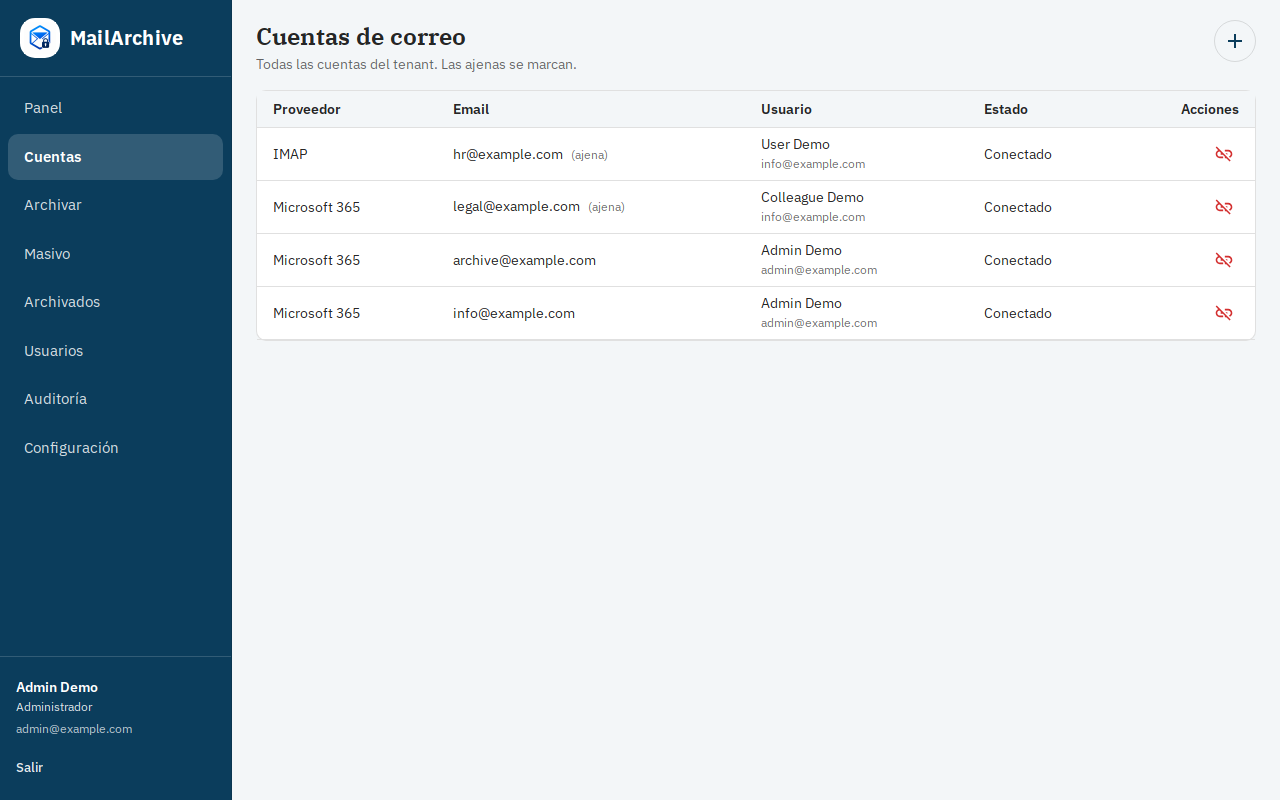
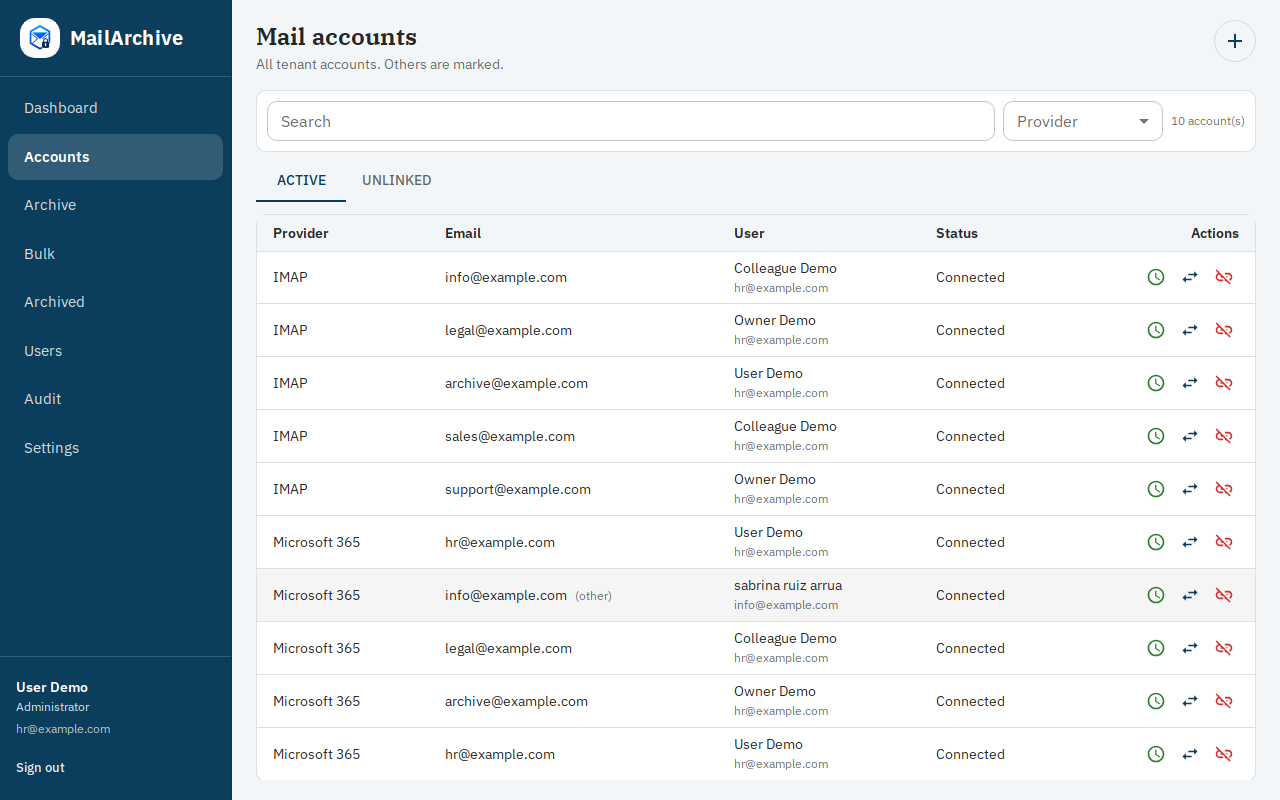
docs: refresh EN screenshots and fix changelog compare links
Force capture locale past tenant ui_locale; redacted demo shots for README/landing.

diff --git a/CHANGELOG.md b/CHANGELOG.md
@@ -94,6 +94,7 @@ First stable public release.
 - Alembic migrations covering mail archive schema
 - Docker Compose stack (API + frontend; SQLite default, MySQL profile)
 
-[Unreleased]: https://github.com/redmanxp/MailArchive-OSS/compare/v1.0.0...HEAD
+[Unreleased]: https://github.com/redmanxp/MailArchive-OSS/compare/v1.0.1...HEAD
+[1.0.1]: https://github.com/redmanxp/MailArchive-OSS/releases/tag/v1.0.1
 [1.0.0]: https://github.com/redmanxp/MailArchive-OSS/releases/tag/v1.0.0
 [0.9.0]: https://github.com/redmanxp/MailArchive-OSS/releases/tag/v0.9.0
